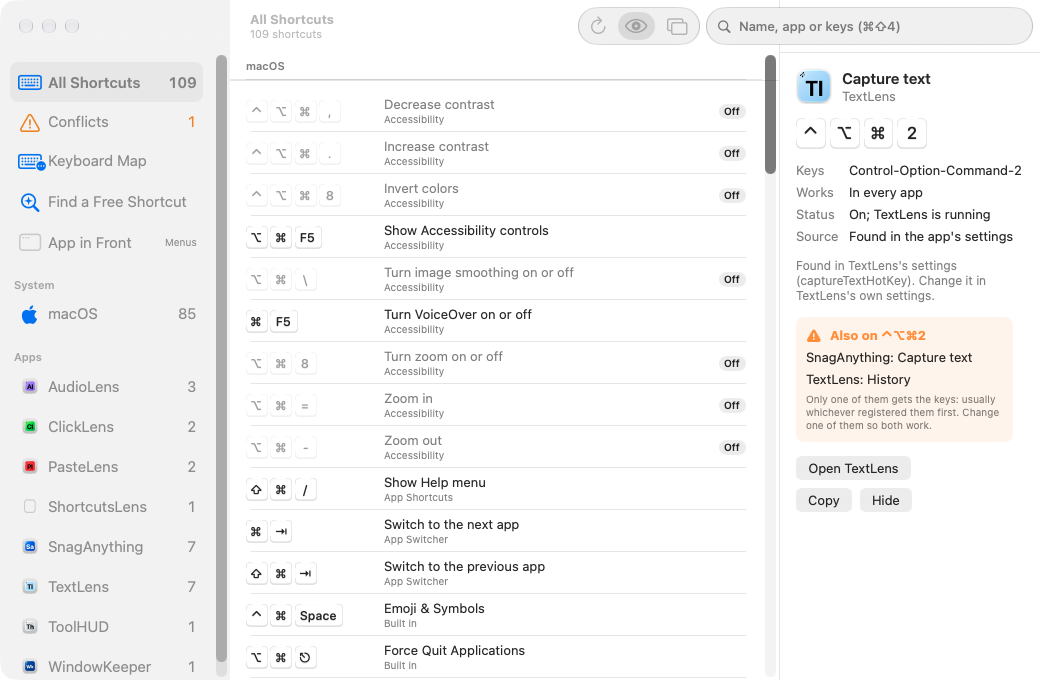
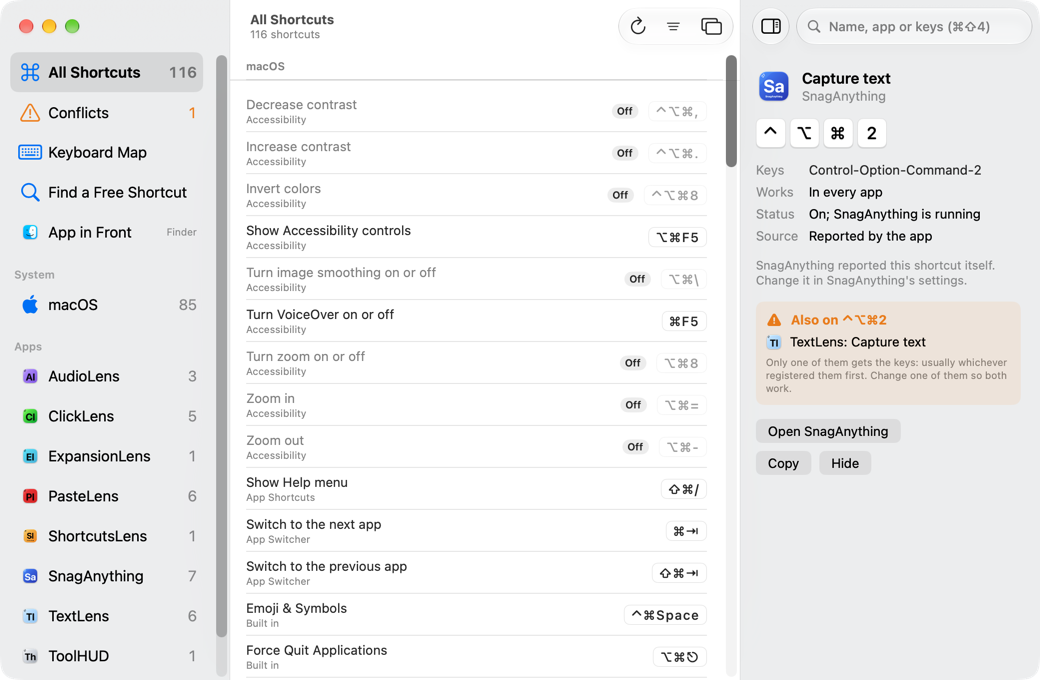
Retake README screenshots with the 1.0.2 design
Debug hook SHORTCUTSLENS_DEBUG_FRONTMOST pins the app in front for shots,
and our own Quick View entry uses the app's icon even when Launch Services
has no URL for this copy.

diff --git a/Sources/ShortcutsLens/Model/ShortcutStore.swift b/Sources/ShortcutsLens/Model/ShortcutStore.swift
@@ -31,6 +31,7 @@ final class ShortcutStore {
 
     @ObservationIgnored private var observers: [NSObjectProtocol] = []
     @ObservationIgnored private var rescanPending = false
+    @ObservationIgnored private var frontmostPinned = false
 
     private init() {}
 
@@ -38,6 +39,14 @@ final class ShortcutStore {
         KeyboardLayout.install()
         running = Set(NSWorkspace.shared.runningApplications.compactMap(\.bundleIdentifier))
         noteFrontmost(NSWorkspace.shared.frontmostApplication)
+        #if DEBUG
+        // Screenshots show a stock app in front, not whatever is in front on this Mac.
+        if let id = ProcessInfo.processInfo.environment["SHORTCUTSLENS_DEBUG_FRONTMOST"],
+           let app = NSRunningApplication.runningApplications(withBundleIdentifier: id).first {
+            noteFrontmost(app)
+            frontmostPinned = true
+        }
+        #endif
         let center = NSWorkspace.shared.notificationCenter
         observers.append(center.addObserver(forName: NSWorkspace.didLaunchApplicationNotification, object: nil, queue: .main) { note in
             let id = (note.userInfo?[NSWorkspace.applicationUserInfoKey] as? NSRunningApplication)?.bundleIdentifier
@@ -204,6 +213,9 @@ final class ShortcutStore {
             return NSImage(systemSymbolName: "gearshape.2", accessibilityDescription: "Services") ?? NSImage()
         case ShortcutEntry.allAppsOwner:
             return NSImage(systemSymbolName: "menubar.rectangle", accessibilityDescription: "All apps") ?? NSImage()
+        case Bundle.main.bundleIdentifier:
+            // Our own Quick View shortcut: a copy that Launch Services hasn't indexed has no URL.
+            return NSApp.applicationIconImage
         default:
             if let url = apps[ownerID]?.url ?? NSWorkspace.shared.urlForApplication(withBundleIdentifier: ownerID) {
                 return NSWorkspace.shared.icon(forFile: url.path)
@@ -225,7 +237,7 @@ final class ShortcutStore {
     // MARK: - The app in front
 
     private func noteFrontmost(_ app: NSRunningApplication?) {
-        guard let app, app.processIdentifier != ProcessInfo.processInfo.processIdentifier, app.activationPolicy == .regular else { return }
+        guard !frontmostPinned, let app, app.processIdentifier != ProcessInfo.processInfo.processIdentifier, app.activationPolicy == .regular else { return }
         if frontmost?.processIdentifier != app.processIdentifier {
             frontmost = app
             frontmostMenus = []

diff --git a/README.md b/README.md
@@ -4,7 +4,7 @@
 
 Global shortcuts pile up. macOS has dozens, every menu bar utility adds a few more, and nothing shows them all in one place. When two apps want the same keys, one of them silently stops working, and when you pick a new shortcut you're guessing whether it's free. ShortcutsLens gathers macOS's shortcuts, Services, App Shortcuts and the global shortcuts your apps register into one searchable list, flags the conflicts, draws a keyboard of what's taken, and puts a cheat sheet for the app you're using one keystroke away.
 
-<p align="center"><img src="docs/images/all.png" width="800" alt="The ShortcutsLens window listing macOS shortcuts, with a TextLens shortcut selected and the inspector showing it also used by SnagAnything"></p>
+<p align="center"><img src="docs/images/all.png" width="800" alt="The ShortcutsLens window listing macOS shortcuts, with a SnagAnything shortcut selected and the inspector showing that TextLens uses the same keys"></p>
 
 ## Download
 
@@ -32,8 +32,8 @@ Requires macOS 26 or later. ShortcutsLens is in beta.
 
 <table>
 <tr>
-<td width="50%"><img src="docs/images/quickview.png" alt="The Quick View over the desktop, listing system-wide shortcuts in three columns"><br><sub><b>Quick View.</b> A cheat sheet over any app, one shortcut away.</sub></td>
-<td width="50%"><img src="docs/images/keyboard.png" alt="The Keyboard Map with Command selected, showing the keys macOS uses lit in blue"><br><sub><b>Keyboard Map.</b> What's taken for each set of modifiers.</sub></td>
+<td width="50%"><img src="docs/images/quickview.png" alt="The Quick View listing Finder's menu shortcuts in three columns, with tabs for system-wide shortcuts and conflicts"><br><sub><b>Quick View.</b> A cheat sheet over any app, one shortcut away.</sub></td>
+<td width="50%"><img src="docs/images/keyboard.png" alt="The Keyboard Map with Command selected, showing the keys in use lit in blue and everything on the M key in the inspector"><br><sub><b>Keyboard Map.</b> What's taken for each set of modifiers.</sub></td>
 </tr>
 <tr>
 <td width="50%"><img src="docs/images/conflicts.png" alt="The Conflicts page, showing SnagAnything and TextLens both on Control-Option-Command-2"><br><sub><b>Conflicts.</b> Shortcuts that fight over the same keys.</sub></td>
